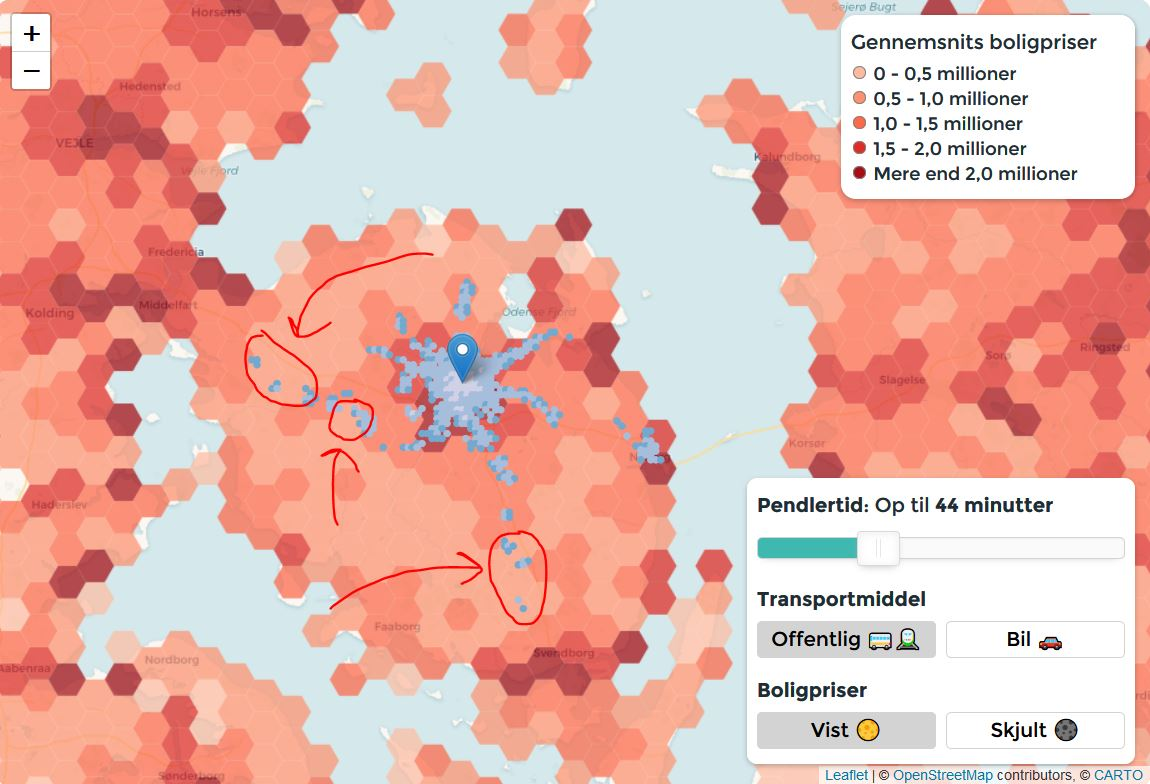
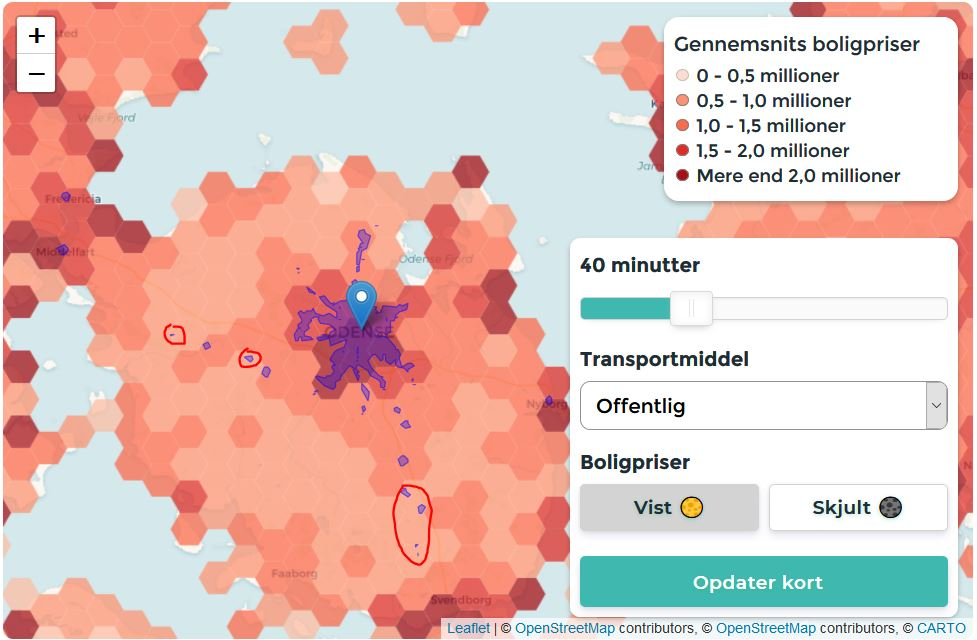
improved everything

diff --git a/src/pointsMap.js b/src/pointsMap.js
@@ -5,6 +5,7 @@ import helper from "./helper";
 import mapHelper from "./map-helper";
 import slugify from "slugify";
 var dawaAutocomplete2 = require("dawa-autocomplete2");
+import jump from "jump.js";
 
 let adress;
 let originPosition;
@@ -17,7 +18,10 @@ const startSelectedSeconds = 3300;
 let previousFilter;
 window.currentPriceIntervals = [1500000, 3000000, 4500000, 6000000];
 
-const $mapLoading = document.querySelector("section.selector .loading-map");
+const $mapLoadingOverlay = document.querySelector(
+    ".points-map .loading-overlay"
+);
+const $mapLoadingText = document.querySelector(".points-map .loading-text");
 const $adress = document.querySelector("section.selector input");
 const $updateMapButton = document.querySelector(
     ".slider-container button.update-map"
@@ -27,7 +31,8 @@ const $filters = document.querySelector(".slider-container");
 const $transportation = document.querySelector(".slider-container select");
 
 function showGeoJsonArea(geoJsonArea) {
-    $mapLoading.classList.remove("shown");
+    $mapLoadingOverlay.classList.remove("shown");
+    $mapLoadingText.classList.remove("shown");
     if (geoJsonAreaLayer) {
         geoJsonAreaLayer.clearLayers();
     }
@@ -94,7 +99,64 @@ helper.toggleButtons([...houseSalesToggleButtons], key => {
     housePriceShown = key === "on";
 });
 
-export default async function() {
+async function showAndFlyToSelectedArea() {
+    if (!originPosition) {
+        const getCoordinatesUrl = `https://dawa.aws.dk/autocomplete?q=${$adress.value}&type=adresse&caretpos=25&supplerendebynavn=true&stormodtagerpostnumre=true&multilinje=true`;
+        const getCoordinatesResponse = await fetch(getCoordinatesUrl);
+        // i also need the lat lng for the map
+        const coordinates = await getCoordinatesResponse.json();
+
+        const { x, y } = coordinates[0].data;
+        originPosition = {
+            latitude: y,
+            longitude: x
+        };
+    }
+
+    houseSalesStyle.setContent(
+        mapHelper.getHouseSalesStyling(
+            0.74,
+            mapHelper.getPriceIntervalFromOrigin(originPosition)
+        )
+    );
+
+    helper.updateHouseSalesLegendCountUp(
+        mapHelper.getPriceIntervalFromOrigin(originPosition),
+        mapHelper.getPriceIntervalFromOrigin(originPosition)
+    );
+
+    map.flyTo([
+        helper.isMobileDevice()
+            ? originPosition.latitude * 1.001
+            : originPosition.latitude,
+        helper.isMobileDevice()
+            ? originPosition.longitude
+            : originPosition.longitude * 1.02
+    ]);
+
+    if (marker) {
+        map.removeLayer(marker);
+    }
+
+    marker = L.marker([
+        originPosition.latitude,
+        originPosition.longitude
+    ]).addTo(map);
+
+    getCommuterMapButtonClicked = true;
+    const geoJsonArea = await getGeoJsonArea({
+        position: originPosition,
+        transportationMode: "TRANSIT,WALK",
+        commuterTime: startSelectedSeconds
+    });
+    showGeoJsonArea(geoJsonArea);
+
+    setTimeout(() => {
+        $filters.classList.add("shown");
+    }, 1000);
+}
+
+export default function() {
     const inputElm = document.getElementById("dawa-autocomplete-input");
     const component = dawaAutocomplete2.dawaAutocomplete(inputElm, {
         select: async function(selected) {
@@ -109,57 +171,24 @@ export default async function() {
 
     document
         .querySelector("section.selector button")
-        .addEventListener("click", async () => {
-            $filters.classList.add("shown");
-            if (!originPosition) {
-                const getCoordinatesUrl = `https://dawa.aws.dk/autocomplete?q=${$adress.value}&type=adresse&caretpos=25&supplerendebynavn=true&stormodtagerpostnumre=true&multilinje=true`;
-                const getCoordinatesResponse = await fetch(getCoordinatesUrl);
-                // i also need the lat lng for the map
-                const coordinates = await getCoordinatesResponse.json();
-
-                const { x, y } = coordinates[0].data;
-                originPosition = {
-                    latitude: y,
-                    longitude: x
-                };
-            }
-
-            houseSalesStyle.setContent(
-                mapHelper.getHouseSalesStyling(
-                    0.74,
-                    mapHelper.getPriceIntervalFromOrigin(originPosition)
-                )
-            );
-
-            $mapLoading.classList.add("shown");
-            map.flyTo([
-                helper.isMobileDevice()
-                    ? originPosition.latitude * 1.001
-                    : originPosition.latitude,
-                helper.isMobileDevice()
-                    ? originPosition.longitude
-                    : originPosition.longitude * 1.02
-            ]);
-
-            if (marker) {
-                map.removeLayer(marker);
-            }
-
-            marker = L.marker([
-                originPosition.latitude,
-                originPosition.longitude
-            ]).addTo(map);
-
-            getCommuterMapButtonClicked = true;
-            const geoJsonArea = await getGeoJsonArea({
-                position: originPosition,
-                transportationMode: "TRANSIT,WALK",
-                commuterTime: startSelectedSeconds
+        .addEventListener("click", () => {
+            $mapLoadingOverlay.classList.add("shown");
+            $mapLoadingText.classList.add("shown");
+            jump(".points-map", {
+                duration: 300,
+                offset: -12,
+                callback: showAndFlyToSelectedArea
             });
-            showGeoJsonArea(geoJsonArea);
         });
 
     $updateMapButton.addEventListener("click", async () => {
+        if (helper.isMobileDevice()) {
+            jump(".points-map", {
+                duration: 300,
+                offset: -12,
+                callback: showAndFlyToSelectedArea
+            });
+        }
         const transportationMode =
             $transportation.options[$transportation.selectedIndex].value;
 
@@ -183,7 +212,9 @@ export default async function() {
         );
 
         if (filterHasChanged) {
-            $updateMapButton.innerHTML = "Henter dit kort...";
+            $mapLoadingOverlay.classList.add("shown");
+            $mapLoadingText.classList.add("shown");
+            $updateMapButton.innerHTML = "Henter dit pendlerkort...";
             const geoJsonArea = await getGeoJsonArea({
                 position: originPosition,
                 transportationMode,
@@ -196,6 +227,18 @@ export default async function() {
         previousFilter = currentFilter;
     });
 }
+
+//     const priceInterval = mapHelper.getPriceIntervalFromOrigin({
+//         latitude: window.activeCommuterPositions.originPosition.latitude,
+//         longitude: window.activeCommuterPositions.originPosition.longitude
+//     });
+
+//     // we count up but we dont actually need the counting, just to change the code
+//     helper.updateHouseSalesLegendCountUp(
+//         [500000, 1000000, 1500000, 2000000],
+//         priceInterval
+//     );
+
 function initializeMap() {
     const myRenderer = L.canvas({ padding: 0.5 });
 

diff --git a/src/main.scss b/src/main.scss
@@ -358,10 +358,49 @@ strong.highlight {
     }
 }
 
-.points-map .legend ul li {
-    &:nth-child(1)::before {
-        background-color: blue;
-        opacity: 0.5;
+.points-map {
+    .loading-text,
+    .loading-overlay {
+        pointer-events: none;
+    }
+
+    .loading-overlay {
+        background-color: grey;
+        width: 100%;
+        top: 0;
+        bottom: 0;
+        position: absolute;
+        z-index: 1;
+        border-radius: 8px;
+        opacity: 0;
+        transition: opacity 0.3s;
+
+        &.shown {
+            opacity: 0.3;
+        }
+    }
+
+    .loading-text {
+        width: 100%;
+        top: 50%;
+        left: 50%;
+        transform: translate(-50%, -50%);
+        position: absolute;
+        z-index: 1;
+        text-align: center;
+        opacity: 0;
+        transition: opacity 0.3s;
+
+        &.shown {
+            opacity: 1;
+        }
+    }
+
+    .legend ul li {
+        &:nth-child(1)::before {
+            background-color: blue;
+            opacity: 0.5;
+        }
     }
 }
 
@@ -509,17 +548,6 @@ section.selector {
         cursor: pointer;
         margin-bottom: 24px;
         margin-top: 12px;
-    }
-
-    .loading-map {
-        display: none;
-        text-align: center;
-        margin-top: -12px;
-        margin-bottom: 12px;
-
-        &.shown {
-            display: block;
-        }
     }
 }
 
